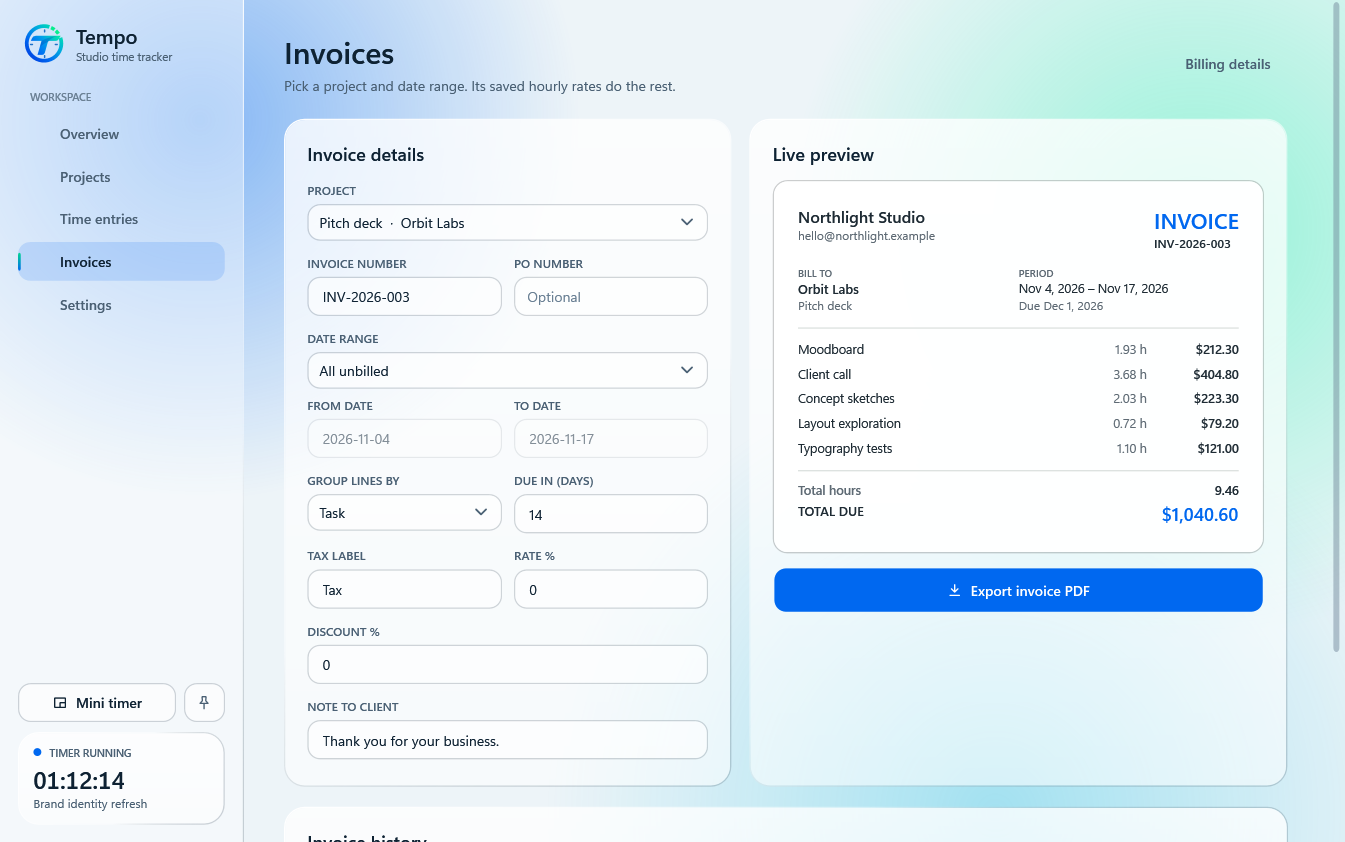
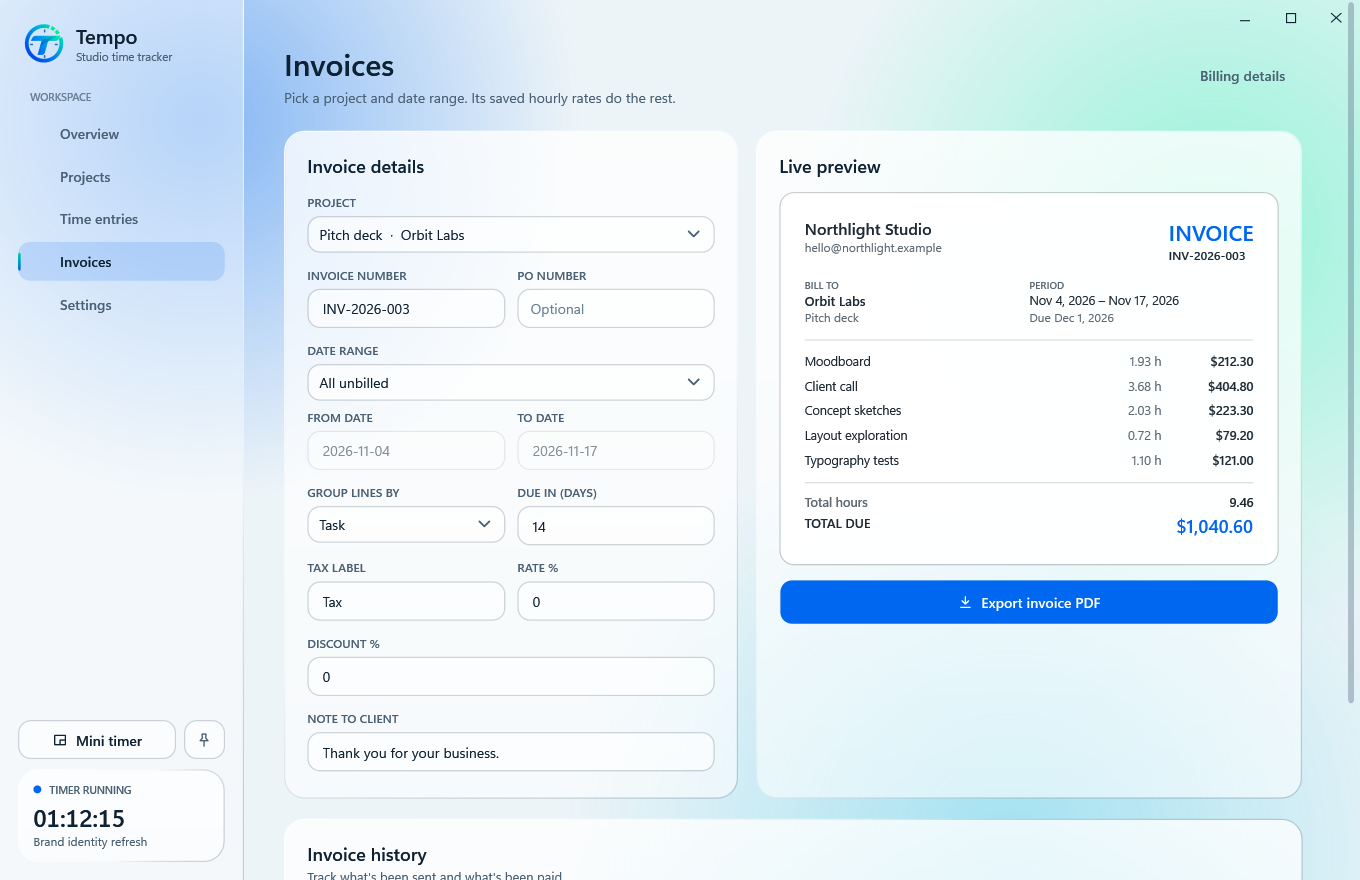
Glass title bar: glass extends to the top edge with custom minimize/maximize/close buttons
- Custom WindowChrome with Mica running under the caption area; the Windows accent
  colour no longer tints the title bar (also applied to dialogs)
- Hand-drawn caption buttons (close turns red on hover), localised tooltips
- Maximised windows no longer overflow the screen
- Shorter German card labels so nothing clips; card subtitles wrap
- Refreshed screenshots

diff --git a/MainWindow.xaml b/MainWindow.xaml
@@ -1,11 +1,17 @@
 <Window x:Class="Tempo.MainWindow"
         xmlns="http://schemas.microsoft.com/winfx/2006/xaml/presentation"
         xmlns:x="http://schemas.microsoft.com/winfx/2006/xaml"
+        xmlns:shell="clr-namespace:System.Windows.Shell;assembly=PresentationFramework"
         Title="Tempo" Width="1280" Height="820" MinWidth="1040" MinHeight="680"
         FontFamily="Segoe UI Variable Text, Segoe UI" FontSize="14"
         Foreground="{DynamicResource TextBrush}" UseLayoutRounding="True"
         TextOptions.TextFormattingMode="Ideal" TextOptions.TextRenderingMode="ClearType">
-    <Grid>
+    <!-- The glass runs all the way to the top edge; Windows still draws the minimize / maximize / close buttons over it. -->
+    <shell:WindowChrome.WindowChrome>
+        <shell:WindowChrome CaptionHeight="36" ResizeBorderThickness="6" GlassFrameThickness="-1"
+                            UseAeroCaptionButtons="False" CornerRadius="0"/>
+    </shell:WindowChrome.WindowChrome>
+    <Grid x:Name="RootGrid">
         <!-- Ambient colour glows: give the glass something to catch -->
         <Grid IsHitTestVisible="False">
             <Ellipse Width="760" Height="760" HorizontalAlignment="Left" VerticalAlignment="Top" Margin="-180,-260,0,0">
@@ -72,7 +78,7 @@
 
             <!-- Page host -->
             <ScrollViewer x:Name="Scroller" Grid.Column="1" VerticalScrollBarVisibility="Auto" HorizontalScrollBarVisibility="Disabled">
-                <ContentControl x:Name="PageHost" MaxWidth="1120" Margin="40,32,40,40" HorizontalAlignment="Stretch" IsTabStop="False"/>
+                <ContentControl x:Name="PageHost" MaxWidth="1120" Margin="40,44,40,40" HorizontalAlignment="Stretch" IsTabStop="False"/>
             </ScrollViewer>
 
             <!-- Toast -->
@@ -86,5 +92,19 @@
                 </StackPanel>
             </Border>
         </Grid>
+
+        <!-- Minimize / maximize / close, drawn to match the glass -->
+        <StackPanel Orientation="Horizontal" HorizontalAlignment="Right" VerticalAlignment="Top" Panel.ZIndex="100"
+                    shell:WindowChrome.IsHitTestVisibleInChrome="True">
+            <Button x:Name="MinBtn" Style="{StaticResource CaptionButton}" Click="Min_Click">
+                <Path Data="M0,5 H10" Stroke="{Binding Foreground, RelativeSource={RelativeSource AncestorType=Button}}" StrokeThickness="1.1" SnapsToDevicePixels="True"/>
+            </Button>
+            <Button x:Name="MaxBtn" Style="{StaticResource CaptionButton}" Click="Max_Click">
+                <Path x:Name="MaxGlyph" Data="M0.5,0.5 H9.5 V9.5 H0.5 Z" Stroke="{Binding Foreground, RelativeSource={RelativeSource AncestorType=Button}}" StrokeThickness="1.1" SnapsToDevicePixels="True"/>
+            </Button>
+            <Button x:Name="CloseBtn" Style="{StaticResource CaptionCloseButton}" Click="Close_Click">
+                <Path Data="M0,0 L10,10 M10,0 L0,10" Stroke="{Binding Foreground, RelativeSource={RelativeSource AncestorType=Button}}" StrokeThickness="1.1" SnapsToDevicePixels="True"/>
+            </Button>
+        </StackPanel>
     </Grid>
 </Window>

diff --git a/Themes/Styles.xaml b/Themes/Styles.xaml
@@ -196,6 +196,46 @@
         </Setter>
     </Style>
 
+    <!-- ===== Window caption buttons (glass) ===== -->
+    <Style x:Key="CaptionButton" TargetType="Button">
+        <Setter Property="Width" Value="46"/>
+        <Setter Property="Height" Value="36"/>
+        <Setter Property="Foreground" Value="{DynamicResource TextBrush}"/>
+        <Setter Property="Focusable" Value="False"/>
+        <Setter Property="Cursor" Value="Arrow"/>
+        <Setter Property="Template">
+            <Setter.Value>
+                <ControlTemplate TargetType="Button">
+                    <Border x:Name="bd" Background="Transparent">
+                        <ContentPresenter HorizontalAlignment="Center" VerticalAlignment="Center"/>
+                    </Border>
+                    <ControlTemplate.Triggers>
+                        <Trigger Property="IsMouseOver" Value="True"><Setter TargetName="bd" Property="Background" Value="{DynamicResource HoverBrush}"/></Trigger>
+                        <Trigger Property="IsPressed" Value="True"><Setter TargetName="bd" Property="Opacity" Value="0.7"/></Trigger>
+                    </ControlTemplate.Triggers>
+                </ControlTemplate>
+            </Setter.Value>
+        </Setter>
+    </Style>
+    <Style x:Key="CaptionCloseButton" TargetType="Button" BasedOn="{StaticResource CaptionButton}">
+        <Setter Property="Template">
+            <Setter.Value>
+                <ControlTemplate TargetType="Button">
+                    <Border x:Name="bd" Background="Transparent">
+                        <ContentPresenter x:Name="cp" HorizontalAlignment="Center" VerticalAlignment="Center"/>
+                    </Border>
+                    <ControlTemplate.Triggers>
+                        <Trigger Property="IsMouseOver" Value="True">
+                            <Setter TargetName="bd" Property="Background" Value="#E81123"/>
+                            <Setter Property="Foreground" Value="White"/>
+                        </Trigger>
+                        <Trigger Property="IsPressed" Value="True"><Setter TargetName="bd" Property="Opacity" Value="0.8"/></Trigger>
+                    </ControlTemplate.Triggers>
+                </ControlTemplate>
+            </Setter.Value>
+        </Setter>
+    </Style>
+
     <!-- ===== Sidebar nav ===== -->
     <Style x:Key="NavButton" TargetType="RadioButton">
         <Setter Property="Foreground" Value="{DynamicResource MutedBrush}"/>

diff --git a/Strings.A.cs b/Strings.A.cs
@@ -33,8 +33,8 @@ public static partial class Loc
         "so far today|hasta ahora hoy|jusqu'ici aujourd'hui|bisher heute|até agora hoje|finora oggi|今日これまで|今天至今|오늘 현재까지",
         "This week|Esta semana|Cette semaine|Diese Woche|Esta semana|Questa settimana|今週|本周|이번 주",
         "{0} billable|{0} facturables|{0} facturables|{0} abrechenbar|{0} faturáveis|{0} fatturabili|請求可能 {0}|可开票 {0}|청구 가능 {0}",
-        "Unbilled|Sin facturar|Non facturé|Nicht abgerechnet|Não faturado|Non fatturato|未請求|未开票|미청구",
-        "not yet invoiced|aún sin facturar|pas encore facturé|noch nicht in Rechnung gestellt|ainda não faturado|non ancora fatturato|未請求|尚未开票|아직 청구 전",
+        "Unbilled|Sin facturar|Non facturé|Offen|Não faturado|Non fatturato|未請求|未开票|미청구",
+        "not yet invoiced|aún sin facturar|pas encore facturé|noch nicht abgerechnet|ainda não faturado|non ancora fatturato|未請求|尚未开票|아직 청구 전",
         "Active projects|Proyectos activos|Projets actifs|Aktive Projekte|Projetos ativos|Progetti attivi|進行中のプロジェクト|进行中的项目|진행 중인 프로젝트",
         "clients & brands|clientes y marcas|clients et marques|Kunden & Marken|clientes e marcas|clienti e marchi|クライアントとブランド|客户与品牌|고객 및 브랜드",
         "Recent sessions|Sesiones recientes|Sessions récentes|Letzte Sitzungen|Sessões recentes|Sessioni recenti|最近のセッション|最近的记录|최근 세션",
@@ -71,7 +71,7 @@ public static partial class Loc
         "No client set|Sin cliente|Aucun client défini|Kein Kunde festgelegt|Sem cliente|Nessun cliente|クライアント未設定|未设置客户|고객 미설정",
         "for {0}|para {0}|pour {0}|für {0}|para {0}|per {0}|{0} 向け|客户:{0}|{0} 대상",
         "TRACKED|REGISTRADO|SUIVI|ERFASST|REGISTRADO|TRACCIATO|記録済み|已记录|기록됨",
-        "UNBILLED|SIN FACTURAR|NON FACTURÉ|NICHT ABGERECHNET|NÃO FATURADO|NON FATTURATO|未請求|未开票|미청구",
+        "UNBILLED|SIN FACTURAR|NON FACTURÉ|OFFEN|NÃO FATURADO|NON FATTURATO|未請求|未开票|미청구",
         "Track|Iniciar|Suivre|Starten|Iniciar|Traccia|記録|计时|기록",
         "Stop or save the running timer first|Detén o guarda primero el temporizador en marcha|Arrêtez ou enregistrez d'abord le minuteur en cours|Stoppe oder speichere zuerst den laufenden Timer|Pare ou salve primeiro o cronômetro em andamento|Ferma o salva prima il timer in corso|先に動作中のタイマーを停止または保存してください|请先停止或保存正在运行的计时器|먼저 실행 중인 타이머를 중지하거나 저장하세요",
         "Invoice|Factura|Facture|Rechnung|Fatura|Fattura|請求書|发票|청구서",

diff --git a/Strings.B.cs b/Strings.B.cs
@@ -214,6 +214,10 @@ public static partial class Loc
         "Switching projects saves the running session and starts the new one.|Cambiar de proyecto guarda la sesión en curso y empieza la nueva.|Changer de projet enregistre la session en cours et démarre la nouvelle.|Beim Wechsel wird die laufende Sitzung gespeichert und die neue gestartet.|Trocar de projeto salva a sessão em andamento e inicia a nova.|Cambiando progetto la sessione in corso viene salvata e ne parte una nuova.|プロジェクトを切り替えると、実行中のセッションを保存して新しく開始します。|切换项目会保存当前记录并开始新的计时。|프로젝트를 바꾸면 진행 중인 세션을 저장하고 새로 시작합니다.",
         "Now tracking {0}|Ahora registrando {0}|Suivi en cours : {0}|Jetzt erfasst: {0}|Registrando agora: {0}|Ora in tracciamento: {0}|{0} を記録中|正在为 {0} 计时|{0} 기록 중",
         "Switch between full and mini view|Alternar entre vista completa y mini|Basculer entre vue complète et mini|Zwischen Voll- und Mini-Ansicht wechseln|Alternar entre visão completa e mini|Passa tra vista completa e mini|通常表示とミニ表示を切り替え|在完整视图与迷你视图间切换|전체 보기와 미니 보기 전환",
+        "Minimize|Minimizar|Réduire|Minimieren|Minimizar|Riduci a icona|最小化|最小化|최소화",
+        "Maximize|Maximizar|Agrandir|Maximieren|Maximizar|Ingrandisci|最大化|最大化|최대화",
+        "Restore down|Restaurar|Restaurer|Wiederherstellen|Restaurar|Ripristina|元に戻す|还原|이전 크기로",
+        "Close|Cerrar|Fermer|Schließen|Fechar|Chiudi|閉じる|关闭|닫기",
         "Tempo could not save your data: |Tempo no pudo guardar tus datos: |Tempo n'a pas pu enregistrer vos données : |Tempo konnte deine Daten nicht speichern: |O Tempo não conseguiu salvar seus dados: |Tempo non è riuscito a salvare i dati: |Tempo はデータを保存できませんでした: |Tempo 无法保存你的数据:|Tempo가 데이터를 저장하지 못했습니다: ",
     };
 }

diff --git a/MainWindow.xaml.cs b/MainWindow.xaml.cs
@@ -36,6 +36,13 @@ public partial class MainWindow : Window
         Icon = Ui.LogoBitmap(64);
         LogoHost.Content = Ui.Logo(40);
         SourceInitialized += (_, _) => Backdrop.Apply(this);
+        StateChanged += (_, _) =>
+        {
+            MaxGlyph.Data = Geometry.Parse(WindowState == WindowState.Maximized ? "M2.5,2.5 V0.5 H9.5 V7.5 H7.5 M0.5,2.5 H7.5 V9.5 H0.5 Z" : "M0.5,0.5 H9.5 V9.5 H0.5 Z");
+            MaxBtn.ToolTip = Loc.T(WindowState == WindowState.Maximized ? "Restore down" : "Maximize");
+            var b = SystemParameters.WindowResizeBorderThickness;
+            RootGrid.Margin = WindowState == WindowState.Maximized ? new Thickness(b.Left + 2, b.Top + 2, b.Right + 2, b.Bottom + 2) : new Thickness(0);
+        };
 
         int i = 1;
         foreach (var (key, title, icon) in Pages)
@@ -80,8 +87,15 @@ public partial class MainWindow : Window
         UpdateMini();
     }
 
+    void Min_Click(object sender, RoutedEventArgs e) => SystemCommands.MinimizeWindow(this);
+    void Max_Click(object sender, RoutedEventArgs e) { if (WindowState == WindowState.Maximized) SystemCommands.RestoreWindow(this); else SystemCommands.MaximizeWindow(this); }
+    void Close_Click(object sender, RoutedEventArgs e) => SystemCommands.CloseWindow(this);
+
     void ApplyChrome()
     {
+        MinBtn.ToolTip = Loc.T("Minimize");
+        MaxBtn.ToolTip = Loc.T(WindowState == WindowState.Maximized ? "Restore down" : "Maximize");
+        CloseBtn.ToolTip = Loc.T("Close");
         Tagline.Text = Loc.T("Studio time tracker");
         WorkspaceLabel.Text = Loc.T("WORKSPACE");
         MiniTimer.ToolTip = Loc.T("Open timer");

diff --git a/Backdrop.cs b/Backdrop.cs
@@ -20,6 +20,10 @@ public static class Backdrop
         if (h == IntPtr.Zero) return;
         int dark = App.IsDark ? 1 : 0;
         DwmSetWindowAttribute(h, 20, ref dark, 4);                    // immersive dark title bar
+        int noColor = unchecked((int)0xFFFFFFFE);                        // DWMWA_COLOR_NONE: caption shows the backdrop, not the accent colour
+        DwmSetWindowAttribute(h, 35, ref noColor, 4);
+        int text = App.IsDark ? 0x00FAF4EE : 0x0033220E;              // caption text colour, COLORREF 0x00BBGGRR
+        DwmSetWindowAttribute(h, 36, ref text, 4);
         int round = 2;                                                // DWMWCP_ROUND: soft corners, also on borderless windows
         DwmSetWindowAttribute(h, 33, ref round, 4);
 

diff --git a/Ui.cs b/Ui.cs
@@ -166,7 +166,7 @@ public static class Ui
         row.Children.Add(Text(Loc.T(label).ToUpperInvariant(), 11, "MutedBrush", FontWeights.SemiBold));
         sp.Children.Add(row);
         sp.Children.Add(Text(value, 25, "TextBrush", FontWeights.SemiBold).WithMargin(0, 10, 0, 2));
-        sp.Children.Add(Text(Loc.T(sub), 12.5, "MutedBrush"));
+        sp.Children.Add(Text(Loc.T(sub), 12.5, "MutedBrush", wrap: true));
         return Card(sp, 20);
     }
 

diff --git a/README.md b/README.md
@@ -57,7 +57,7 @@ Single-file release build:
 dotnet publish -c Release -r win-x64 --self-contained false -p:PublishSingleFile=true -o publish
 ```
 
-Pushing a tag such as `v2.4.0` makes GitHub Actions build the exe and attach it to a release (see `.github/workflows/build.yml`).
+Pushing a tag such as `v2.5.0` makes GitHub Actions build the exe and attach it to a release (see `.github/workflows/build.yml`).
 
 ## Your data
 
